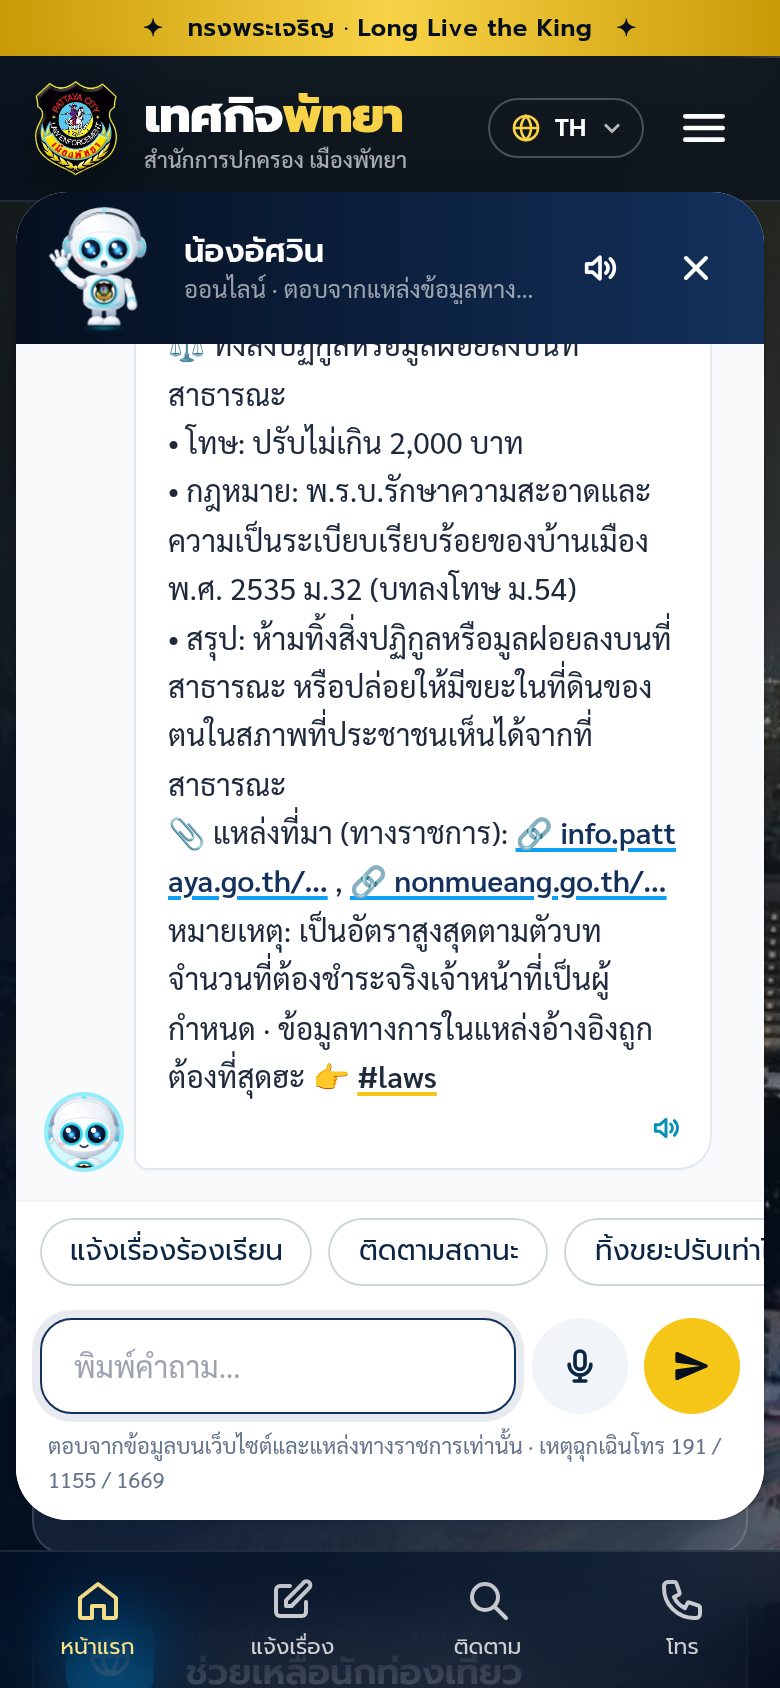
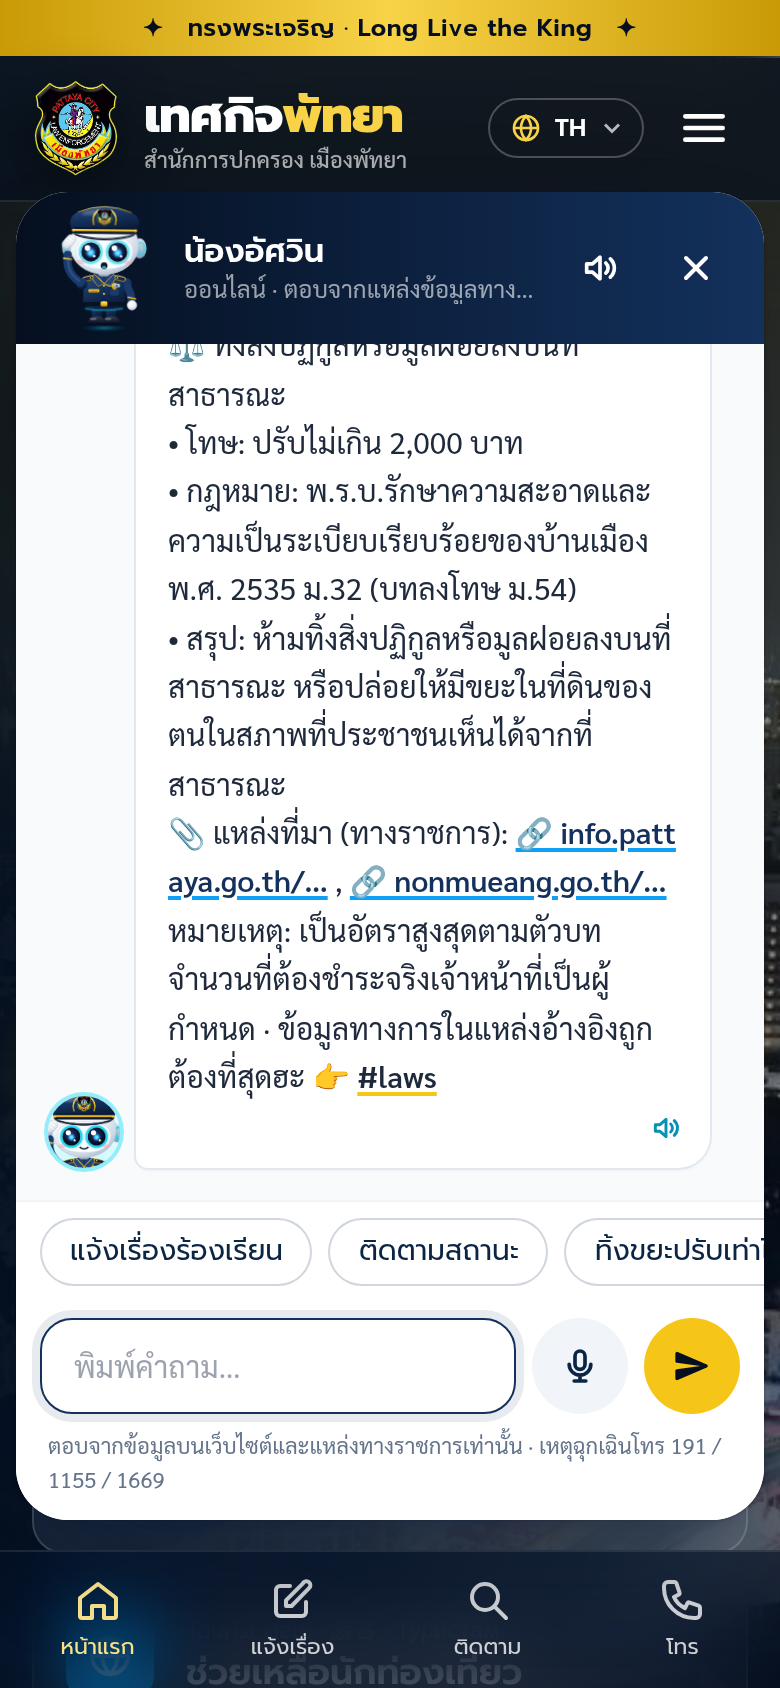
มาสคอตเริ่มต้นของน้องอัศวิน = หุ่นยนต์ชุดเจ้าหน้าที่เทศกิจ (content.json + ค่าเริ่มต้นในโค้ด) · ยังเลือกแบบหุ่นยนต์ได้ในหลังบ้าน

Changed region(s): [[0.0615, 0.1232, 0.1846, 0.2156], [0.0615, 0.6469, 0.1538, 0.7085]]

diff --git a/admin/index.html b/admin/index.html
@@ -406,14 +406,14 @@ function renderLayout(){
       swHtml('data-lsw',x.enabled,'แสดง '+x.label)+'</li>'}).join('');
   var fl=FEAT_DEF.map(function(d){return '<div class="flex items-center gap-3 py-3"><div class="flex-1 min-w-0"><p class="font-head font-medium text-navy-900">'+esc(d[1])+'</p><p class="text-xs text-slate-500">'+esc(d[2])+'</p></div>'+swHtml('data-fsw="'+d[0]+'"',content.features[d[0]]!==false,d[1])+'</div>'}).join('');
   fl+='<div class="flex items-center gap-3 py-3"><div class="flex-1 min-w-0"><p class="font-head font-medium text-navy-900">มาสคอตน้องอัศวิน (แอนิเมชัน)</p><p class="text-xs text-slate-500">ปิดเพื่อใช้รูปอวตารที่อัปโหลดเอง (เนื้อหาเว็บไซต์ → แชทบอท → รูปอวตาร)</p></div>'+swHtml('data-msw',content.chatbot.mascot!==false,'มาสคอต')+'</div>';
-  var ms=content.chatbot.mascotStyle==='officer'?'officer':'robot';
-  fl+='<div class="flex items-center gap-3 py-3"><div class="flex-1 min-w-0"><p class="font-head font-medium text-navy-900">แบบมาสคอต</p><p class="text-xs text-slate-500">หุ่นยนต์ (ค่าเริ่มต้น) หรือ หุ่นยนต์ชุดเจ้าหน้าที่เทศกิจ (ตัวอย่าง)</p></div><select data-mstyle class="rounded-lg border border-slate-300 px-3 py-1.5 text-sm"><option value="robot"'+(ms==='robot'?' selected':'')+'>หุ่นยนต์</option><option value="officer"'+(ms==='officer'?' selected':'')+'>เจ้าหน้าที่</option></select></div>';
+  var ms=content.chatbot.mascotStyle==='robot'?'robot':'officer';
+  fl+='<div class="flex items-center gap-3 py-3"><div class="flex-1 min-w-0"><p class="font-head font-medium text-navy-900">แบบมาสคอต</p><p class="text-xs text-slate-500">หุ่นยนต์ชุดเจ้าหน้าที่เทศกิจ (ค่าเริ่มต้น) หรือ หุ่นยนต์สีขาวแบบเดิม</p></div><select data-mstyle class="rounded-lg border border-slate-300 px-3 py-1.5 text-sm"><option value="robot"'+(ms==='robot'?' selected':'')+'>หุ่นยนต์</option><option value="officer"'+(ms==='officer'?' selected':'')+'>เจ้าหน้าที่</option></select></div>';
   $('#featList').innerHTML=fl;
   renderVoice();
   $$('#layList [data-lsw]').forEach(function(cb){cb.onchange=function(){var id=cb.closest('li').dataset.id;secs.find(function(x){return x.id===id}).enabled=cb.checked;layDirty(true);renderLayout()}});
   $$('#layList [data-lmv]').forEach(function(b){b.onclick=function(){var id=b.closest('li').dataset.id,i=secs.findIndex(function(x){return x.id===id}),j=i+(+b.dataset.lmv);if(j<1||j>=secs.length)return;var t=secs[i];secs[i]=secs[j];secs[j]=t;secs.forEach(function(x,k){x.order=k+1});layDirty(true);renderLayout();var el=$('#layList [data-id="'+id+'"] [data-lmv="'+b.dataset.lmv+'"]');if(el)el.focus()}});
   $$('#featList [data-fsw]').forEach(function(cb){cb.onchange=function(){content.features[cb.dataset.fsw]=cb.checked;layDirty(true)}});
-  var m=$('#featList [data-msw]');if(m)m.onchange=function(){content.chatbot.mascot=m.checked;layDirty(true)};var mst=$('#featList [data-mstyle]');if(mst)mst.onchange=function(){if(mst.value==='robot')delete content.chatbot.mascotStyle;else content.chatbot.mascotStyle=mst.value;layDirty(true)};
+  var m=$('#featList [data-msw]');if(m)m.onchange=function(){content.chatbot.mascot=m.checked;layDirty(true)};var mst=$('#featList [data-mstyle]');if(mst)mst.onchange=function(){content.chatbot.mascotStyle=mst.value;layDirty(true)};
   // drag & drop
   var dragEl=null,list=$('#layList');
   $$('#layList li[draggable]').forEach(function(li){

diff --git a/assets/app.js b/assets/app.js
@@ -351,7 +351,7 @@
   // อวาตาร์ในบับเบิลแชท: ภาพนิ่ง assets/mascot.png (เบา) · ถ้าปิดมาสคอตใช้รูปที่อัปโหลดเอง/โลโก้
   function bubbleAvatar() {
     if (!useMascot()) return '<span class="w-9 h-9 shrink-0">' + avatarHtml('static') + '</span>';
-    return '<span class="w-9 h-9 shrink-0 rounded-full ring-2 ring-cyan-300/70 shadow-sm" role="img" aria-label="" style="background:url(' + esc(bot.mascotStyle === 'officer' ? 'assets/mascot-officer.png' : 'assets/mascot.png') + ') 50% -3px/140% auto no-repeat,linear-gradient(#f0f9ff,#cffafe)"></span>';
+    return '<span class="w-9 h-9 shrink-0 rounded-full ring-2 ring-cyan-300/70 shadow-sm" role="img" aria-label="" style="background:url(' + esc(bot.mascotStyle === 'robot' ? 'assets/mascot.png' : 'assets/mascot-officer.png') + ') 50% -3px/140% auto no-repeat,linear-gradient(#f0f9ff,#cffafe)"></span>';
   }
   function figs() { return $$('#chatFabFig .mascot, #chatHeadFig .mascot, #chatHeroFig .mascot'); }
   function talk(on) { figs().forEach(function (m) { m.classList.toggle('talking', !!on); }); }

diff --git a/assets/mascot.js b/assets/mascot.js
@@ -231,6 +231,7 @@
           '</g></g>' +
       '</g></svg>';
   }
-  function render(logo, cls, style) { return style === 'officer' ? officer(logo, cls) : svg(logo, cls); }
+  // ค่าเริ่มต้น = หุ่นยนต์ชุดเจ้าหน้าที่เทศกิจ · ส่ง 'robot' เพื่อใช้หุ่นยนต์แบบเดิม
+  function render(logo, cls, style) { return style === 'robot' ? svg(logo, cls) : officer(logo, cls); }
   window.TKPMascot = { css: CSS, svg: render, robot: svg, officer: officer, png: 'assets/mascot.png', pngOfficer: 'assets/mascot-officer.png' };
 })();

diff --git a/tools/apply_persona.py b/tools/apply_persona.py
@@ -21,6 +21,7 @@ def main():
     c = json.load(open(P, encoding='utf-8'))
     b = c.setdefault('chatbot', {})
     pt = b.setdefault('particle', 'ฮะ')
+    b.setdefault('mascotStyle', 'officer')  # มาสคอตเริ่มต้น: หุ่นยนต์ชุดเจ้าหน้าที่เทศกิจ
     b['greeting'] = 'สวัสดีฮะ 👋 น้องอัศวินยินดีให้บริการฮะ ถามเรื่องการแจ้งร้องเรียน ติดตามสถานะ ข้อบัญญัติและค่าปรับ (มีลิงก์แหล่งข้อมูลทางราชการ) หรือข้อมูลนักท่องเที่ยวได้เลยฮะ'
     b.setdefault('greetings', {})['th'] = b['greeting']
     b['fallback'] = particle(re.sub(r'ขออภัย(ครับ|ค่ะ)', 'ขออภัยฮะ', b.get('fallback', '')), pt)

diff --git a/shot2.py b/shot2.py
@@ -7,7 +7,7 @@ D = '/workspace/tesakij-pattaya/'
 URL = sys.argv[1] if len(sys.argv) > 1 else 'http://localhost:3000/'
 PW = os.environ.get('ADMIN_PASSWORD', 'demo1234')
 PREP = "() => document.querySelectorAll('.reveal').forEach(e => e.classList.add('is-in'))"
-MASCOT_CARD = """()=>{const M=(c)=>TKPMascot.svg('assets/logo.png',c);
+MASCOT_CARD = """()=>{const M=(c)=>TKPMascot.svg('assets/logo.png',c,'robot');
 const st=(h,t)=>'<div style="text-align:center"><div style="width:150px;height:178px;margin:auto">'+h+'</div><p style="margin:6px 0 0;font:600 15px Prompt;color:#0b2545">'+t+'</p></div>';
 document.body.innerHTML='<div style="height:100vh;display:flex;align-items:center;gap:40px;padding:0 60px;box-sizing:border-box;background:radial-gradient(circle at 28% 50%,#e0fbff 0,#d5ecf8 35%,#b9d7ec 100%);font-family:Sarabun">'+
 '<div style="width:470px;height:560px;flex:none">'+M('static')+'</div>'+
